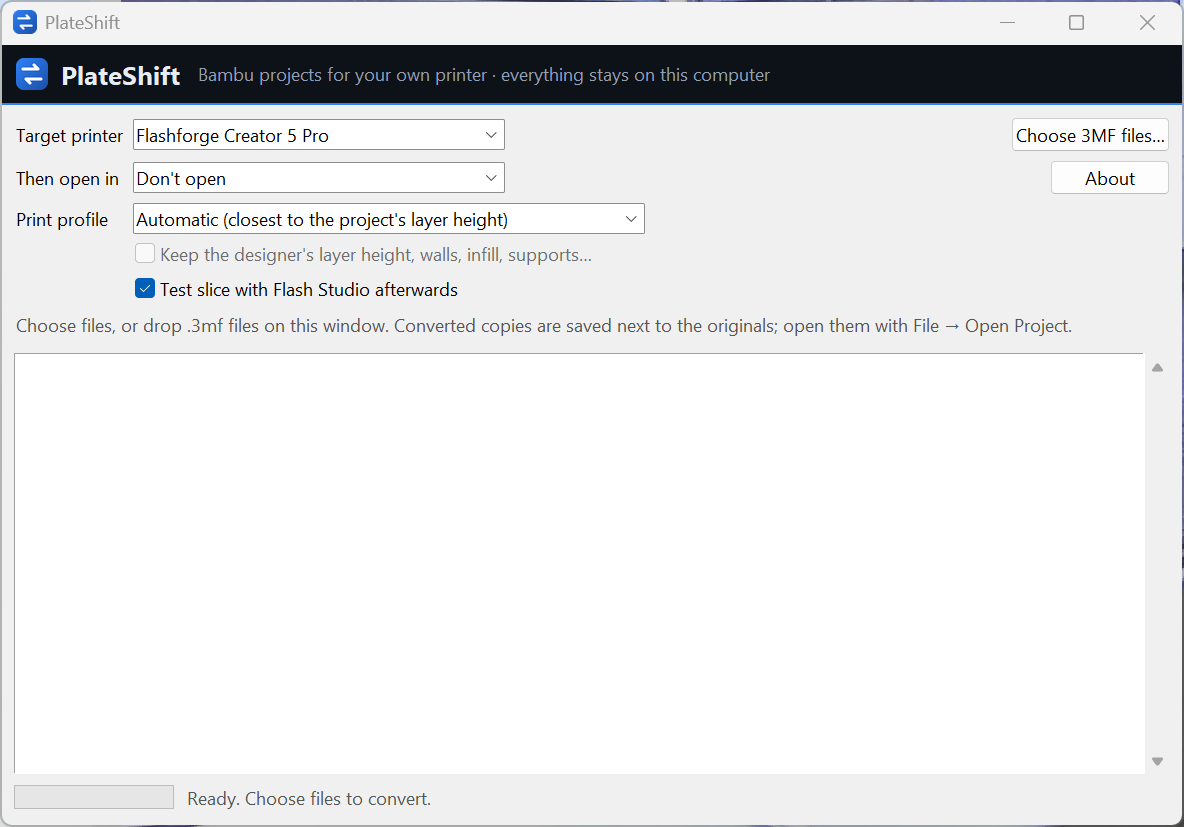
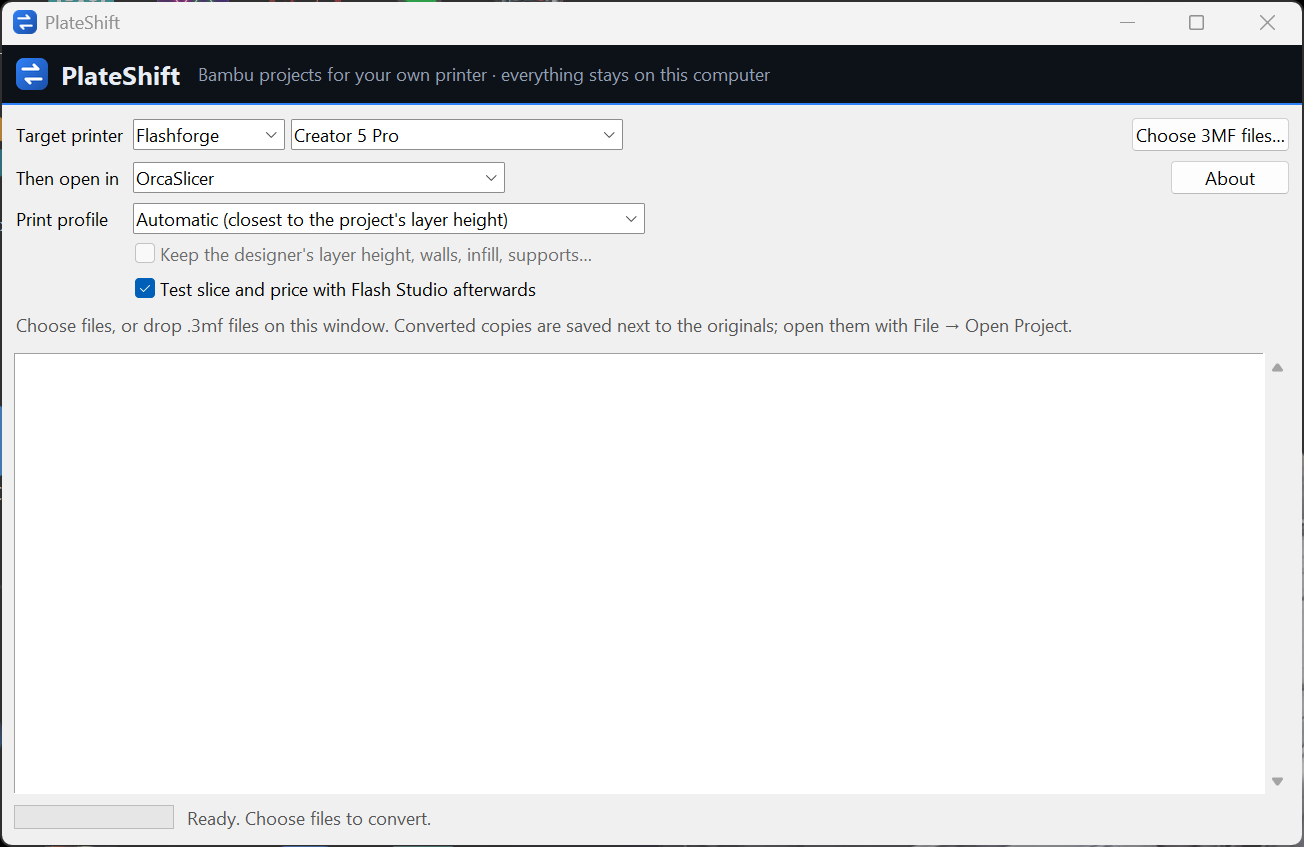
Windows screenshots with plate choice and prices; screenshot tool runs on Windows and WSL too

diff --git a/tools/screenshots.py b/tools/screenshots.py
@@ -1,15 +1,18 @@
 # SPDX-License-Identifier: AGPL-3.0-or-later
 """Drive the PlateShift window through the README states and screenshot each.
 
-    python tools/screenshots.py --profiles <folder> --out <folder> [--slicer <program>]
+    python tools/screenshots.py --profiles <folder with BBL profiles> --out <folder>
 
-macOS only (uses the system screencapture tool). Used by the macos workflow.
+Windows and Linux under WSL capture the window through Windows (WSL windows are
+ordinary Windows windows); macOS uses its screencapture tool, as the macos
+workflow does. Files are named main_screen.png etc., with linux_ or mac_ in front.
 """
 
 from __future__ import annotations
 
 import argparse
 import json
+import shutil
 import subprocess
 import sys
 import tempfile
@@ -25,6 +28,48 @@ from make_project import write_project  # noqa: E402
 import plateshift.gui as gui  # noqa: E402
 from plateshift import paint  # noqa: E402
 
+TITLE = "PlateShift"
+PREFIX = {"win32": "", "darwin": "mac_"}.get(sys.platform, "linux_")
+
+# finds the visible top-level window with this title and saves what's on screen there,
+# title bar included and without the drop shadow
+_CAPTURE = r'''
+Add-Type -AssemblyName System.Drawing
+Add-Type @"
+using System; using System.Text; using System.Runtime.InteropServices;
+public class Shot {
+  public delegate bool EnumProc(IntPtr h, IntPtr p);
+  [DllImport("user32.dll")] public static extern bool EnumWindows(EnumProc f, IntPtr p);
+  [DllImport("user32.dll")] public static extern int GetWindowText(IntPtr h, StringBuilder s, int n);
+  [DllImport("user32.dll")] public static extern bool IsWindowVisible(IntPtr h);
+  [DllImport("user32.dll")] public static extern bool SetProcessDPIAware();
+  [DllImport("dwmapi.dll")] public static extern int DwmGetWindowAttribute(IntPtr h, int a, out RECT r, int n);
+  public struct RECT { public int L, T, R, B; }
+  public static RECT Find(string title) {
+    SetProcessDPIAware();
+    RECT found = new RECT();
+    EnumWindows((h, p) => {
+      var s = new StringBuilder(256); GetWindowText(h, s, 256);
+      var t = s.ToString();
+      // wsl windows carry the distro's name: "PlateShift (Ubuntu)"
+      if (IsWindowVisible(h) && (t == title || t.StartsWith(title + " ("))) { DwmGetWindowAttribute(h, 9, out found, 16); return false; }
+      return true; }, IntPtr.Zero);
+    return found;
+  }
+}
+"@
+$r = [Shot]::Find('TITLE'); if ($r.R -le $r.L) { throw 'window not found' }
+$b = New-Object Drawing.Bitmap ($r.R - $r.L), ($r.B - $r.T)
+$g = [Drawing.Graphics]::FromImage($b); $g.CopyFromScreen($r.L, $r.T, 0, 0, $b.Size)
+$b.Save('OUT')
+'''
+
+
+def _windows_path(path: Path) -> str:
+    if sys.platform == "win32":
+        return str(path)
+    return subprocess.run(["wslpath", "-w", str(path)], capture_output=True, text=True, check=True).stdout.strip()
+
 
 def main() -> int:
     ap = argparse.ArgumentParser()
@@ -32,13 +77,18 @@ def main() -> int:
     ap.add_argument("--out", type=Path, required=True)
     args = ap.parse_args()
     args.out.mkdir(parents=True, exist_ok=True)
+    if sys.platform == "win32":
+        import ctypes
+        ctypes.windll.shcore.SetProcessDpiAwareness(2)
 
+    # four painted cubes on two plates, so the plate ticks show
     work = Path(tempfile.mkdtemp())
+    step_x = 256 * 1.2
     src = write_project(work / "Colour cubes.3mf", e2e.bambu_project(args.profiles),
-                        [[(60 + 40 * i, 128) for i in range(4)]], size=20,
+                        [[(70 + 45 * i, 128) for i in range(3)], [(128 + step_x, 128)]], size=20,
                         paint={i: paint.encode(i) for i in range(1, 5)})
     settings = work / "settings.json"
-    settings.write_text(json.dumps({"printer": "Flashforge Creator 5 Pro", "test_slice": True,
+    settings.write_text(json.dumps({"printer": "Flashforge Creator 5 Pro", "test_slice": True, "currency": "$",
                                     "open_in_by_printer": {"c5p": "OrcaSlicer"}}))
     gui._settings_file = lambda: settings
     gui.save_settings = lambda s: None
@@ -47,18 +97,25 @@ def main() -> int:
     root = tk.Tk()
     root.bell = lambda: None
     app = gui.App(root, [])
-    root.geometry("960x700+20+32")  # the ci mac screen is only 1024 x 768
+    root.title(TITLE)
+    # the ci mac screen is only 1024 x 768
+    root.geometry("960x700+20+32" if sys.platform == "darwin" else "1300x800+40+40")
     root.lift()
     root.attributes("-topmost", True)
 
     def shoot(name: str):
         root.update()
-        x, y = root.winfo_rootx(), root.winfo_rooty()
-        w, h = root.winfo_width(), root.winfo_height()
-        title = 28  # the macos title bar sits above the tk content
-        subprocess.run(["screencapture", "-x", f"-R{x},{y - title},{w},{h + title}",
-                        str(args.out / f"mac_{name}.png")], check=True)
-        print("captured", name, flush=True)
+        out = args.out / f"{PREFIX}{name}.png"
+        if sys.platform == "darwin":
+            x, y = root.winfo_rootx(), root.winfo_rooty()
+            w, h = root.winfo_width(), root.winfo_height()
+            title = 28  # the macos title bar sits above the tk content
+            subprocess.run(["screencapture", "-x", f"-R{x},{y - title},{w},{h + title}", str(out)], check=True)
+        else:
+            shell = "powershell" if sys.platform == "win32" else shutil.which("powershell.exe") or "powershell.exe"
+            script = _CAPTURE.replace("TITLE", TITLE).replace("OUT", _windows_path(out.resolve()))
+            subprocess.run([shell, "-NoProfile", "-Command", script], check=True)
+        print("captured", out.name, flush=True)
 
     steps = []
 
@@ -74,7 +131,11 @@ def main() -> int:
             root.after(200, drive)
             return
         steps.pop(0)
-        fn()
+        try:
+            fn()
+        except Exception:
+            root.quit()  # don't sit waiting for steps that will never come
+            raise
         root.after(700, drive)
 
     step(lambda: shoot("main_screen"))
@@ -84,9 +145,11 @@ def main() -> int:
     step(lambda: shoot("file_selected"))
     step(lambda: app.convert_plan())
     step(lambda: None, lambda: not app.busy and app.last_output is not None)
+    step(lambda: app.log.see("end"))
     step(lambda: shoot("done_results"))
     root.after(1500, drive)
     root.mainloop()
+    sys.stdout.reconfigure(errors="replace")  # the log has ✓ in it
     print(app.log.get("1.0", "end").strip())
     return 0
 
